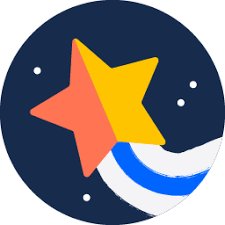
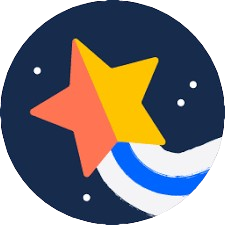
added rules page

diff --git a/client/src/Pages/UserProfile/ProfileBio.jsx b/client/src/Pages/UserProfile/ProfileBio.jsx
@@ -2,11 +2,15 @@ import React from "react";
 import { useSelector } from "react-redux";
 import { useParams } from "react-router";
 import risingStar from '../../assests/rising_star.png';
-import superStar from '../../assests/super_star.jpg'
+import superStar from '../../assests/super_star.png'
 import goldUser from '../../assests/gold user.png';
 import superUser from '../../assests/trophy.png';
+import { FontAwesomeIcon } from "@fortawesome/react-fontawesome";
 import './ProfileBio.css'
 import UserLocation from "../UserLocation/UserLocation";
+import { Link } from "react-router-dom";
+import { faLightbulb } from "@fortawesome/free-solid-svg-icons";
+
 
 const ProfileBio = ({ currentProfile }) => {
   const { id } = useParams();
@@ -54,7 +58,8 @@ const ProfileBio = ({ currentProfile }) => {
 
           <div className="Badges">
 
-            <h4>Earned Badges</h4>
+            <h4>Earned Badges <span title="know more">  <Link to ="/Rules"> <FontAwesomeIcon icon={faLightbulb} /></Link></span></h4>
+            
 
             {questionsList.data
               .filter((question) => question.userId === id)
@@ -62,17 +67,17 @@ const ProfileBio = ({ currentProfile }) => {
                 <div key={question._id} className="badge_section">
 
                   {question.upVote.length >= 10 && (
-                    <img src={risingStar} alt="risingstar" className="probadge" title="Rising Star" />
+                  <Link to ="/Rules">  <img src={risingStar} alt="risingstar" className="probadge" title="Rising Star" /></Link>
                   )}
 
                   {question.upVote.length >= 50 && (
-                    <img src={superStar} alt="legendbadge" className="legendbadge" title="Super Star" />
+                  <Link to='/Rules'>  <img src={superStar} alt="legendbadge" className="legendbadge" title="Super Star" /></Link>
                   )}
 
 
 
 
-                  {question.upVote.length < 10 && (
+                  {question.upVote.length < 10 && totalAnswers <10 && (
                     <p>User has no badge till now.</p>
                   )}
                 </div>
@@ -80,17 +85,17 @@ const ProfileBio = ({ currentProfile }) => {
 
             <div className="Total_answer">
 
-              {totalAnswers > 0 && totalAnswers >= 20 && (
+              {  totalAnswers >= 10 && (
                 <div className=" image-container ">
-                  <img src={goldUser} alt="golduser" title="Gold User" />
+                 <Link to="/Rules"> <img src={goldUser} alt="golduser" title="Gold User" /></Link>
 
 
                 </div>
               )}
-              {totalAnswers > 0 && totalAnswers >= 100 && (
+              {totalAnswers > 0 && totalAnswers >= 20 && (
                 <div className=" image-container ">
 
-                  <img src={superUser} alt="superuser" title="Super User" />
+                <Link to ="/Rules">  <img src={superUser} alt="superuser" title="Super User" /></Link>
 
                 </div>
               )}

diff --git a/client/src/components/Badges/Rules.jsx b/client/src/components/Badges/Rules.jsx
@@ -1,0 +1,52 @@
+import React from 'react'
+import LeftSidebar from '../LeftSidebar/LeftSidebar'
+import risingStar from '../../assests/rising_star.png';
+import superStar from '../../assests/super_star.png'
+import goldUser from '../../assests/gold user.png';
+import superUser from '../../assests/trophy.png';
+import './Badge.css';
+
+const Rules = ({ slideIn, handleSlideIn, styles, logoStyle }) => {
+  return (
+    <div className="home-container-1">
+      <LeftSidebar slideIn={slideIn} handleSlideIn={handleSlideIn} styles={styles} logoStyle={logoStyle} />
+      <div className="home-container-2" >
+        <h1 className="rules-h1" >Rules</h1>
+        <p className="rules-p">
+          Follow this rules to earn badges
+        </p>
+
+        <div className="badge-container">
+
+          <div className="badges rising-star">
+            <img src={risingStar} alt="risging-star" title='Rising Star' />
+            Rising Star
+          </div>
+          <div className="badges super-star">
+            <img src={superStar} alt="" title='Super Star' />
+            Super Star
+          </div>
+          <div className="badges gold-user">
+            <img src={goldUser} alt="" title='Gold User' />
+            Gold User
+          </div>
+          <div className="super-user">
+            <img src={superUser} alt="" width={132} title='Super User' />
+          Super User
+          </div>
+        </div>
+
+        <div className="rules-list-container">
+          
+            <p>Rising Star: User will get this badge after getting 10 upvotes on a certain question.</p>
+            <p>Super Star: User will get this badge after getting 50 upvotes on a certain question.</p>
+            <p>Gold User: User will get this badge after posting total 10 answers .</p>
+            <p>Super User: User will get this badge after posting total 20 answers.</p>
+          
+        </div>
+      </div>
+    </div>
+  )
+}
+
+export default Rules

diff --git a/client/src/AllRoutes.jsx b/client/src/AllRoutes.jsx
@@ -11,6 +11,7 @@ import Tags from './Pages/Tags/Tags'
 import About from './Pages/About/About'
 import ForgetPass from './Pages/Auth/ForgetPass'
 import PasswordReset from './Pages/Auth/PasswordReset'
+import Rules from './components/Badges/Rules'
 
 
 const AllRoutes = ({slideIn,handleSlideIn,styles,logoStyle}) => {
@@ -30,6 +31,7 @@ const AllRoutes = ({slideIn,handleSlideIn,styles,logoStyle}) => {
         <Route path ="/About" element={<About/>}/>
         <Route path = '/Users' element ={<Users slideIn={slideIn} handleSlideIn={handleSlideIn} styles={styles} logoStyle={logoStyle} />}/>
         <Route path ='/Users/:id' element ={<UserProfile slideIn={slideIn} handleSlideIn={handleSlideIn} styles={styles} logoStyle={logoStyle}  />}/>
+        <Route path ='/Rules' element ={<Rules slideIn={slideIn} handleSlideIn={handleSlideIn} styles={styles} logoStyle={logoStyle}  />}/>
       </Routes>
   
   )

diff --git a/client/src/components/Badges/Badge.css b/client/src/components/Badges/Badge.css
@@ -4,3 +4,31 @@
     gap: 4px;
     height: 45px;
 }
+.rules-list-container{
+    margin-top: 50px;
+    padding-top: 50px;
+
+}
+.badge-container{
+    display: flex;
+    gap: 10px;
+
+}
+.badges>img{
+    width: 100px;
+    height: 100px;
+    /* border-radius: 50%; */
+    cursor: pointer;
+}
+.badges{
+    display: flex;
+    flex-direction: column;
+    
+    align-items: center;
+}
+.super-user{
+    display: flex;
+    flex-direction: column;
+    align-items: center;
+
+}

diff --git a/client/src/components/Badges/Badge.jsx b/client/src/components/Badges/Badge.jsx
@@ -1,6 +1,6 @@
 import React from 'react'
 import risingStar from '../../assests/rising_star.png';
-import superStar from '../../assests/super_star.jpg'
+import superStar from '../../assests/super_star.png'
 import './Badge.css'
 
 const Badge =  ({ upVote }) => {
